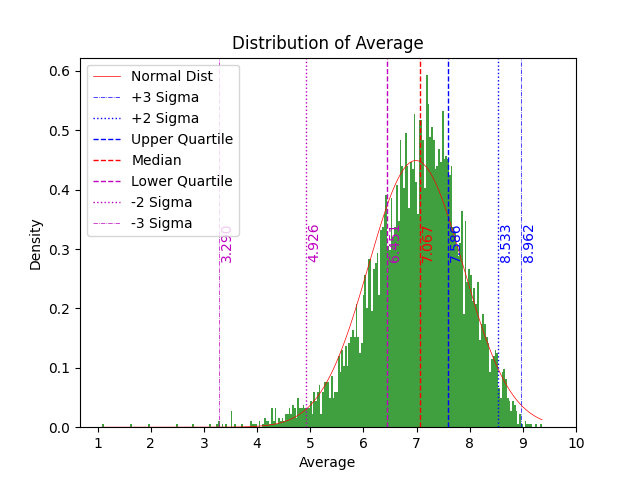
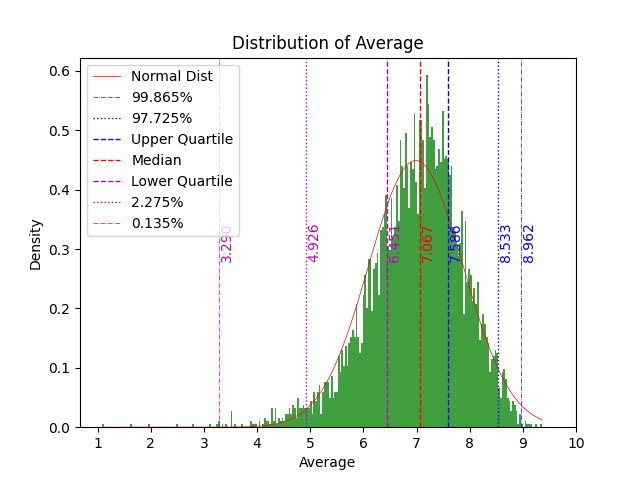
Update diagrams

Changed region(s): [[0.1875, 0.1875, 0.3125, 0.2812], [0.1875, 0.4062, 0.3125, 0.5]]

diff --git a/game/stat.py b/game/stat.py
@@ -79,7 +79,7 @@ def x_stat(s, name, fname, n, ofile):
     plt.text(lq + x_diff, mid_y, f"{lq:.3f}", rotation=90, va='center', color='m')
     plt.text(n2s + x_diff, mid_y, f"{n2s:.3f}", rotation=90, va='center', color='m')
     plt.text(n3s + x_diff, mid_y, f"{n3s:.3f}", rotation=90, va='center', color='m')
-    plt.legend(["Normal Dist", "+3 Sigma", "+2 Sigma", "Upper Quartile", "Median", "Lower Quartile", "-2 Sigma", "-3 Sigma"])
+    plt.legend(["Normal Dist", "99.865%", "97.725%", "Upper Quartile", "Median", "Lower Quartile", "2.275%", "0.135%"])
     plt.title("Distribution of %s" % name)
     plt.xlabel(name)
     plt.ylabel("Density")
@@ -135,7 +135,7 @@ def x_nodist(s, name, fname, n, ofile):
     plt.text(p2s + x_diff, mid_y, f"{p2s:.0f}", rotation=90, va='center', color='b')
     plt.text(uq + x_diff, mid_y, f"{uq:.0f}", rotation=90, va='center', color='b')
     plt.text(med + x_diff, mid_y, f"{med:.0f}", rotation=90, va='center', color='r')
-    plt.legend(["+3 Sigma", "+2 Sigma", "Upper Quartile", "Median", "Lower Quartile"])
+    plt.legend(["99.865%", "97.725%", "Upper Quartile", "Median", "Lower Quartile"])
     plt.title("Distribution of %s" % name)
     plt.xlabel(name)
     plt.ylabel("Density")
